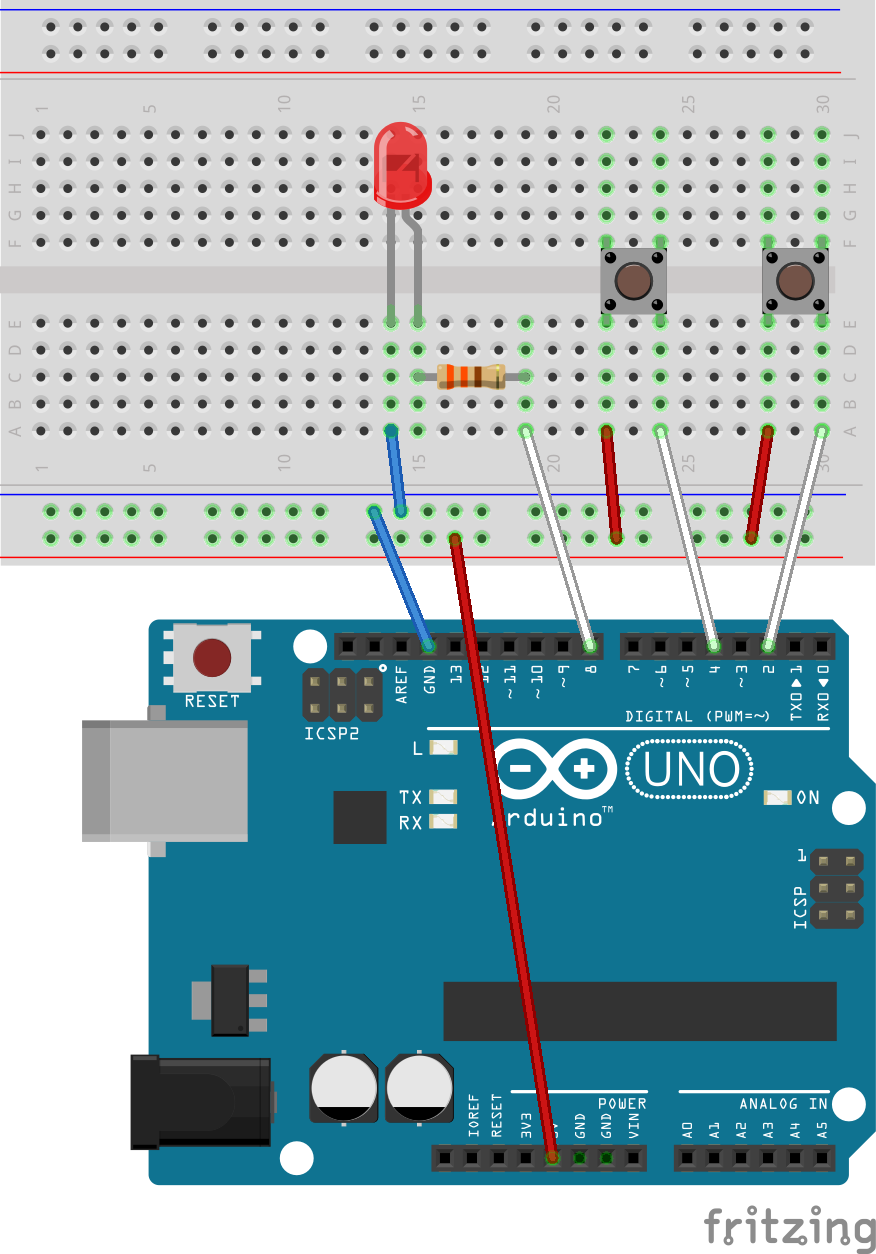
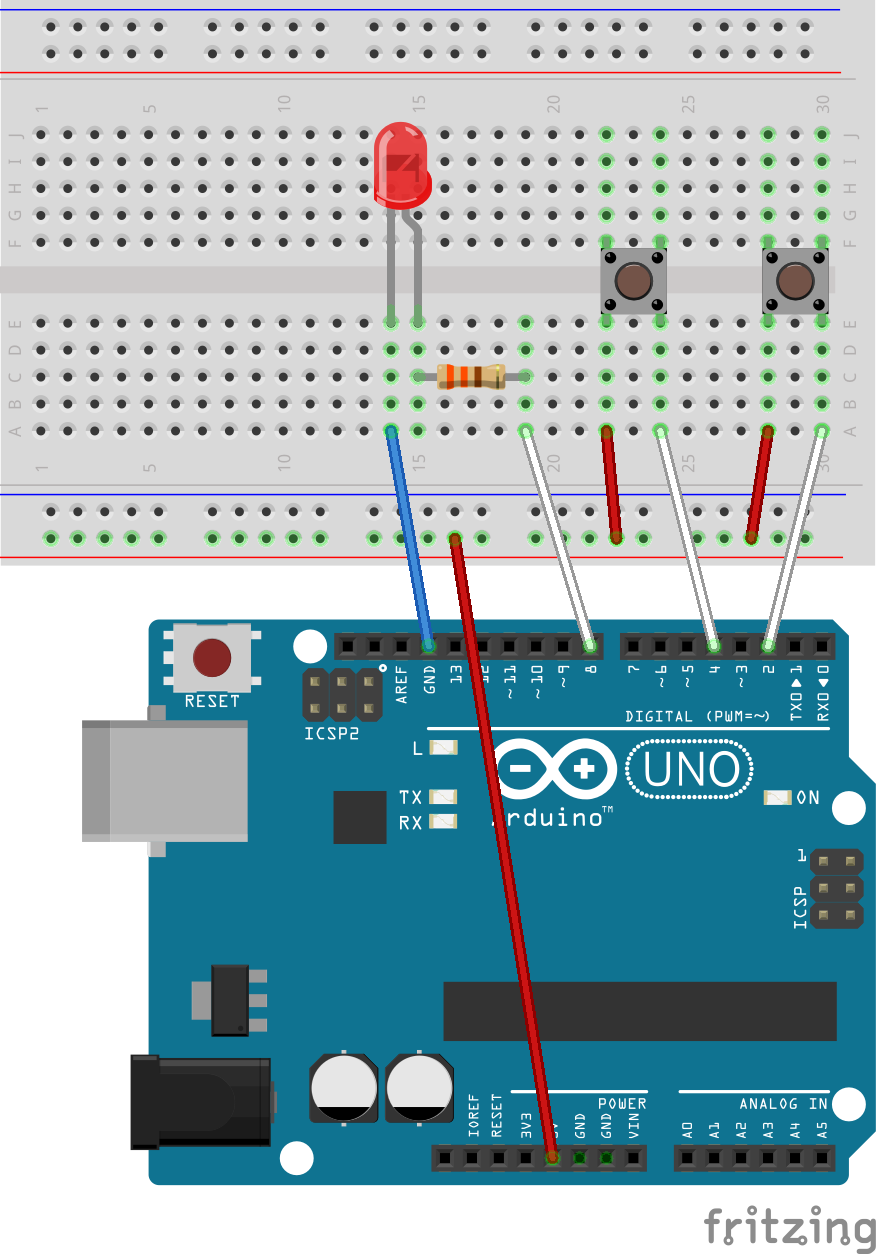
中間コミット

diff --git a/books/mobiflight-msfs2020-build-controller/parking-break-led.md b/books/mobiflight-msfs2020-build-controller/parking-break-led.md
@@ -1,14 +1,9 @@
 ---
-title: "[WIP]パーキングブレーキの状態をLEDで表示する"
+title: "パーキングブレーキの状態をLEDで表示する"
 ---
-
-:::message alert
-このチャプターは執筆途中です。
-:::
-
 # 本チャプターの内容
 最初の一歩として、LEDを使ったシンプルな出力から始めましょう。
-パーキングブレーキの状態をLEDで表示します。
+このチャプターではパーキングブレーキの状態をLEDで表示することを題材に、シンプルな二値(ON/OFF)の出力を学びます。
 パーキングブレーキがONの時はLEDは点灯し、OFFの時は消灯するような動作です。
 
 # 準備するもの
@@ -25,26 +20,61 @@ Arduinoと準備した電子部品を以下のように接続します。
 ![](/images/mobiflight-msfs2020-build-controller/parking-break-led/circuit.png =700x)
 
 # MobiFlightの設定
-## ピンアサインの設定
-1. アップロードで続行確認の画面が出るので`OK`をクリック
-1. アップロード完了画面が出るまでまつ
-1. OKをクリックしてSetting画面を閉じる
+MobiFlightでは大きく分けて２つ設定を行います。
+1. デバイスの設定
+MobiFlightではLEDやスイッチなどの電子部品を「デバイス」と呼びます。
+MobiFlightの設定では最初にArduinoにどのデバイスがどのように(どのピンに)接続されているか」を設定します。
+1. フライトシミュレーターとデバイスのマッピング
+デバイスの設定が完了したら、そのデバイスにフライトシミュレーター内のどの項目（今回はパーキングブレーキの状態）を表示するかをマッピングします。
 
-## フライトシミュレーターとデバイスのマッピング
+この２つによって、**どのようなデバイスがArduinoに接続されており**、そのデバイスに**フライトシミュレーター内のどのような情報を出入力するか**を設定します。それでは具体的に設定を行っていきましょう。
 
-1. ダブルクリックして`parking brake`と入力
-1. edit列の・・・をクリック
-1. ConfigWizardで - - を``の設定
-1. ConfigWizardで - - を``の設定してOK
-1. ActiveにしてTest
+### デバイスの設定
+1. MobiFlight Connectorを起動してメニューバーから `Extras`→`Settings`をクリックします。
+![](/images/mobiflight-msfs2020-build-controller/parking-break-led/1.png)
+1. `Settings`画面が表示されます。`MobiFlight Modules`タブを開くと現在接続されているMobiFlightボードがリスト表示されます。
+![](/images/mobiflight-msfs2020-build-controller/parking-break-led/2.png)
+1. デバイスを追加したいMobiFlightボードを選択して`Add device`→`LED/Output`をクリックします。
+![](/images/mobiflight-msfs2020-build-controller/parking-break-led/3.png)
+1. ボードに選択したデバイスが追加されます。今回は8番ピンにLEDを接続するので`Pin settings`を`8`にセットします。
+![](/images/mobiflight-msfs2020-build-controller/parking-break-led/4.png)
+1. デバイスの変更を行ったら必ずボードに変更を書き込みます。ボードリスト下のアップロードアイコンをクリックしてデバイス設定をアップロードします。
+![](/images/mobiflight-msfs2020-build-controller/parking-break-led/5.png)
+1. アップロード完了画面が出るまで待ちます。アップロードが完了したら`OK`をクリックしてSettings画面を閉じ、ホーム画面に戻ります。
+![](/images/mobiflight-msfs2020-build-controller/parking-break-led/6.png)
+
+### フライトシミュレーターとデバイスのマッピング
+1. ホーム画面で「Double-click row to ~」と記載がある部分をダブルクリックして`Parking brake`と入力します。
+![](/images/mobiflight-msfs2020-build-controller/parking-break-led/101.png)
+1. `Parking brake`マッピングが作成されたので、edit列の`...`をクリックします。
+![](/images/mobiflight-msfs2020-build-controller/parking-break-led/102.png)
+1. ConfigWizardが表示されます。`Sim Variable`タブで`Select Preset`を`BREAK PARKING INDICATOR` を選択します。
+通常Select Presetの選択肢は膨大にあるので`Filter Preset List`の検索条件を使用して機種で絞り込んだり、フリーワード検索をします。
+![](/images/mobiflight-msfs2020-build-controller/parking-break-led/103.png)
+1. ConfigWizardの`Display`タブに移動して以下の設定をします。
+`Test`をクリックすると接続したLEDが点灯します。正常に点灯したら`OK`をクリックしてConfigWizardを閉じます。
+![](/images/mobiflight-msfs2020-build-controller/parking-break-led/104.png)
+1. ホーム画面でマッピングを作成した`Parking brake`の`Active`にチェックを入れてして`Test`ボタンをクリックします。
+LEDが画面の表示に合わせて点滅します。これでMobiFlightの設定は完了です。
+![](/images/mobiflight-msfs2020-build-controller/parking-break-led/105.png)
 
 # 実行
 1. MSFS2020を起動します。
-1. MobiFlightのRunボタンがクリックできるようになるので、Runボタンをクリックします。
+1. MSFS2020が起動していればMobiFlightのRunボタンがクリックできるようになるので、Runボタンをクリックします。
+![](/images/mobiflight-msfs2020-build-controller/parking-break-led/201.png)
 1. MSFS2020で適当なフリーフライトを開始します。
-1. 飛行機のパーキングブレーキを画面上でON/OFFして正常にLEDが点灯/消灯することを確認します。
+1. 飛行機のパーキングブレーキを画面上でON/OFFし、LEDの点灯/消灯が連動することを確認します。
 
+https://www.youtube.com/watch?v=W96cWgCxOTs
 
 # まとめ
-これでON/OFFの二値状態をLEDで表示できました。
-今回のパーキングブレーキだけではなく、ギアの状態やストロボ灯インジケーターなど様々な部分に応用可能です！
+これでON/OFFの二値をLEDで表示できました。
+最もシンプルな出力でしたが、今回のパーキングブレーキだけではなくギアの状態やストロボ灯インジケーターなど様々な部分に応用可能です！
+
+# コラム
+### 出力を反転させたいときは？
+今回はパーキングブレーキがONのとき、LEDもONになるような動作をしました。
+ではパーキングブレーキがONのときにLEDをOFFに、パーキングブレーキがOFFのときにLEDをONにするにはどうすればよいでしょう。
+この設定を追加するにはマッピングを設定した`ConfigWizard`画面の`Compare`タブで`Comparation Settings`を設定します。
+具体的には以下の画像の通り、パーキングブレーキの状態(current value)が1(ON)ならLEDへの出力を0(OFF)、それ以外のときはLEDの出力を1(ON)になるようにします。
+![](/images/mobiflight-msfs2020-build-controller/parking-break-led/colum.png)

diff --git a/books/mobiflight-msfs2020-build-controller/parking-break-switch.md b/books/mobiflight-msfs2020-build-controller/parking-break-switch.md
@@ -17,7 +17,7 @@ title: "[WIP]パーキングブレーキをタクトスイッチでON/OFFする"
 - ジャンパーワイヤー
 
 # 回路図
-Arduinoと準備した電子部品を以下のように接続します。
+Arduinoと準備した電子部品を以下のように接続します。前チャプターで接続したLEDをそのまま使用して追加でパーキングブレーキのON/OFF用タクトスイッチを２つ接続します。
 ![](/images/mobiflight-msfs2020-build-controller/parking-break-switch/breadboard.png =400x)
 回路図で表すと、このようになります。
 ![](/images/mobiflight-msfs2020-build-controller/parking-break-switch/circuit.png =700x)
